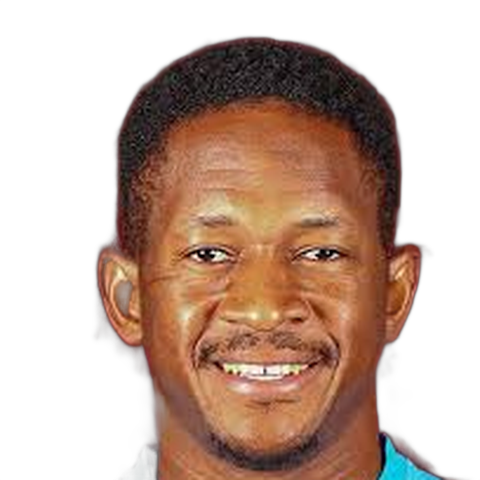
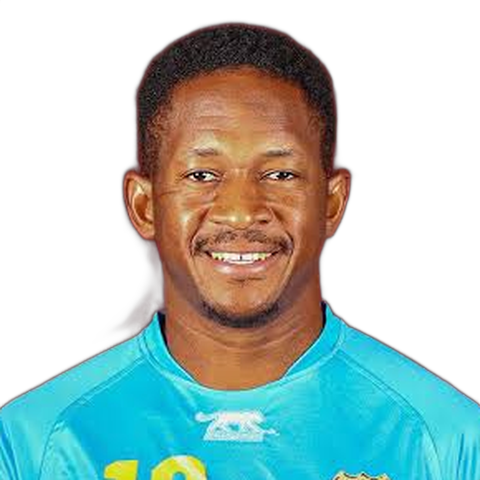
Djigui Diarra recadré et centré
Claude-Session: https://claude.ai/code/session_01HrXdBFJwxbhqadNHYHNDER

diff --git a/visuels/photos/SOURCES.md b/visuels/photos/SOURCES.md
@@ -17,7 +17,7 @@
 | fode-doucoure (id du registre) | Fodé Doucouré | fode-doucoure.png (original : fode-doucoure_original.png) | https://hac.football/en/players/2xpoljxhc1nnjveb06ipqvpt6 (fichier envoyé par Diaby le 2026-10-16) | Le Havre AC | photo officielle du club, non libre : à retirer si le club le demande | en ligne le 2026-10-16 | recadrée (tête et épaules, 480 px), fond bleu retiré (rembg, isnet-general-use) |
 | yves-bissouma (id du registre) | Yves Bissouma | yves-bissouma.png (original : yves-bissouma_original.webp) | visuel « Done deal » de la page fan « Football Fans Tribe » (montage, photo d'origine probablement officielle de l'Ajax), fichier envoyé par Diaby le 2026-10-16 ; la fiche Eredivisie n'a pas encore de photo | origine exacte inconnue | non libre, provenance à confirmer : à remplacer par la photo officielle de l'Ajax dès qu'elle est en ligne | 2026 (signature à l'Ajax) | recadrée sur la tête (320 x 320 → 480 px), fond retiré (rembg, isnet-general-use) ; aucun logo du montage dans le recadrage |
 | falaye-sacko (id du registre) | Falaye Sacko | falaye-sacko.png (original : falaye-sacko_original.png) | https://mhscfoot.com/wp-content/uploads/2025/08/77-sacko-2.png (lien donné par Diaby, fichier envoyé le 2026-10-16 ; remplace la capture Instagram floue) | Montpellier HSC | photo officielle du club, non libre : à retirer si le club le demande | 2025-08 | recadrée sur la tête (480 px), fond transparent d'origine |
-| djigui-diarra (id du registre) | Djigui Diarra | djigui-diarra.png (original : djigui-diarra_original.png) | photo officielle CAF de la CAN 2025 (Maroc), maillot du Mali, fichier envoyé par Diaby le 2026-10-16 (trouvée via Google Images) | CAF | photo officielle, non libre : à retirer si demandé | 2025-12 (CAN 2025) | recadrée sur la tête (480 px, agrandie : original 480 x 640), fond retiré (rembg) |
+| djigui-diarra (id du registre) | Djigui Diarra | djigui-diarra.png (original : djigui-diarra_original.png) | photo officielle CAF de la CAN 2025 (Maroc), maillot du Mali, fichier envoyé par Diaby le 2026-10-16 (trouvée via Google Images) | CAF | photo officielle, non libre : à retirer si demandé | 2025-12 (CAN 2025) | recadrée sur la tête et les épaules, centrée (290 px → 480 px), fond retiré (rembg) |
 | abdoulaye-diaby (id du registre) | Abdoulaye Diaby (défenseur, né en 2000) | abdoulaye-diaby.png (original : abdoulaye-diaby_original.png) | photo officielle du Royal Antwerp FC publiée sur l'Instagram du joueur (@abdoulaye_diaby_15, 18/11/2020), capture envoyée par Diaby le 2026-10-16 | Royal Antwerp FC | non libre : à retirer si demandé ; photo ancienne (2020), à remplacer par un portrait de Grasshopper ou de la CAF si on en trouve | 2020-11 | recadrée sur la tête (480 px), fond retiré (rembg) |
 | kiki-kouyate (id du registre) | Boubakar « Kiki » Kouyaté | kiki-kouyate.png (original : kiki-kouyate_original.png) | visuel officiel « Welcome » d'Al-Khaleej Club (Arabie saoudite), repris sur Facebook (Yiriba Sport 2.0, 15 juin 2026), capture envoyée par Diaby le 2026-10-16 | Al-Khaleej Club | non libre : à retirer si demandé | 2026-06 | recadrée sur la tête (480 px), fond retiré (rembg) |
 | sikou-niakate (id du registre) | Sikou Niakaté | sikou-niakate.png (original : sikou-niakate_original.png) | photo officielle de présentation du SC Braga (scbraga.pt), fichier envoyé par Diaby le 2026-10-16 | SC Braga | photo officielle du club, non libre : à retirer si le club le demande | maillot 2025-26 | recadrée sur la tête (360 px → 480 px), fond retiré (rembg), reste du poteau au-dessus de la tête effacé |
